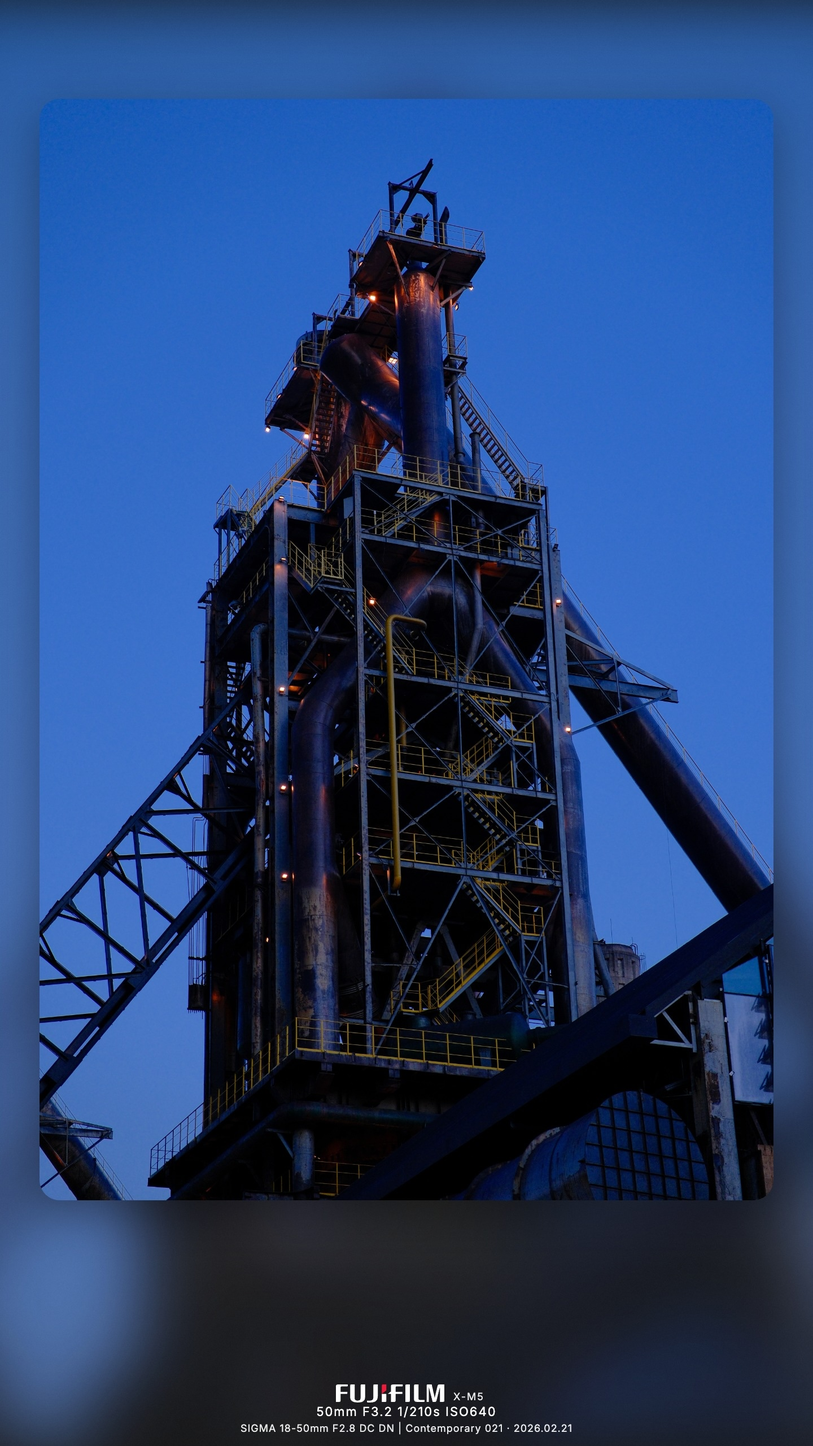
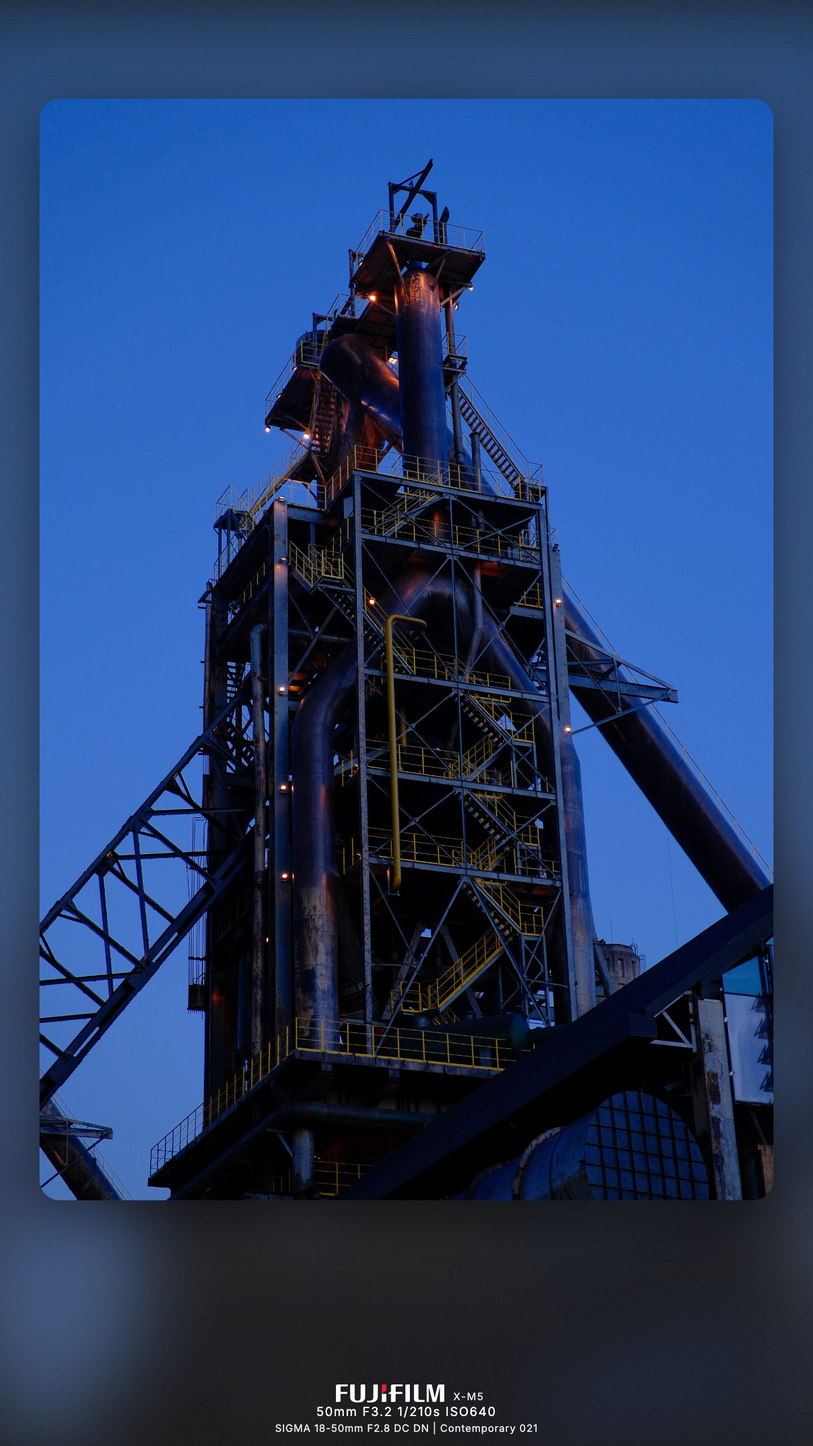
docs: README 截图更新（暗房工作台 + 灯下看样）+ smoke 基线重置 (#39)
Post-release doc/test sync for 1.12.1→1.16.1:

- 03-desktop-workshop.png: re-shot — the May-era shot showed the
  pre-darkroom-discipline drawer AND the old scrim dimming the canvas
  (both gone since 1.12.1/1.13.0).
- 04-desktop-crop.png → 04-desktop-lightsdown.png: the old shot showed
  the crop modal deleted in 1.10.7; replaced with the lights-down
  proofing state (dimmed bench, lit knob row, on-canvas HUD, shadow-ring
  hairline, pause-to-crisp full-res frame). Both READMEs' img/alt/
  captions updated in both languages.
- data/*_framed.jpg smoke baselines re-rendered via the exact fixture
  path (renderFinal quality:standard + EXIF reattach): the committed
  baselines carried an unclaimed 1.84% drift from pre-branch pipeline
  changes, masking new regressions up to that level. Fresh baselines
  bring the smoke noise floor back to 0.17% (pure JPEG codec noise).
  Current pipeline = the locally accepted 1.16.1 look.

No version bump / no CHANGELOG — docs and test assets only.

diff --git a/README.md b/README.md
@@ -74,11 +74,11 @@ And adjusting is proofing, darkroom-style: grip any knob and the workshop itself
 <table>
   <tr>
     <td width="50%"><img src="docs/screenshots/03-desktop-workshop.png" alt="Workshop drawer open" /></td>
-    <td width="50%"><img src="docs/screenshots/04-desktop-crop.png" alt="Crop & rotate modal" /></td>
+    <td width="50%"><img src="docs/screenshots/04-desktop-lightsdown.png" alt="Lights-down proofing while dragging a knob" /></td>
   </tr>
   <tr>
     <td align="center"><sub>Workshop — every render knob exposed</sub></td>
-    <td align="center"><sub>Crop & rotate — per-photo, render-time only</sub></td>
+    <td align="center"><sub>Lights-down proofing — grip a knob and the bench recedes</sub></td>
   </tr>
 </table>
 
